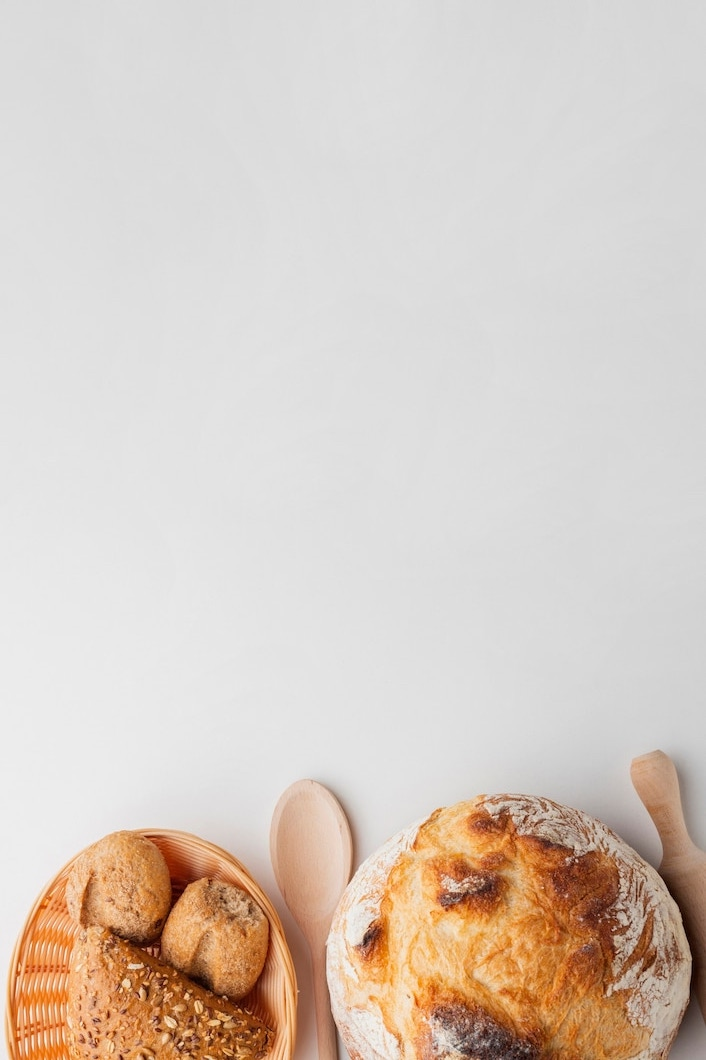
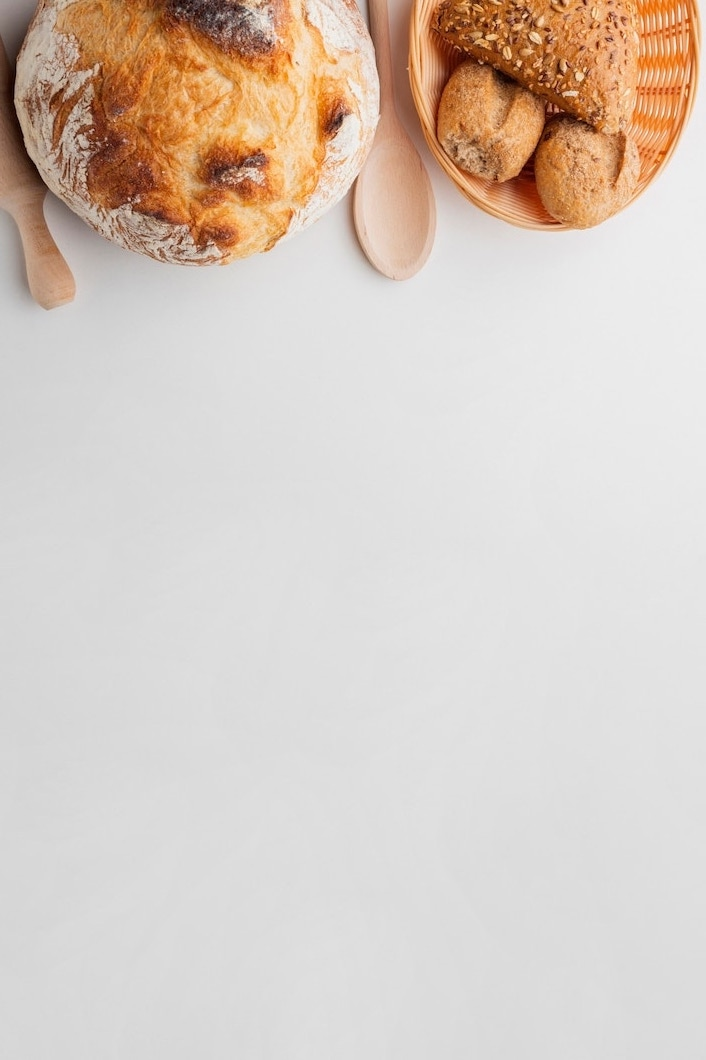
resellers bg image changed orientatation

diff --git a/scss/style.scss b/scss/style.scss
@@ -207,9 +207,8 @@ img {
 }
 
 #resellers {
-  min-height: 85vh;
+  min-height: 90vh;
   background-color: #d7d7d7;
-  padding-top: 48px;
   width: 100%;
   display: grid;
   place-items: center;
@@ -217,19 +216,19 @@ img {
   background-repeat: no-repeat;
   background-size: cover;
   background-position: right;
+  grid-template-rows: 275px auto;
   > h2 {
+    align-self: end;
     font-size: 1.5rem;
     width: 84%;
     text-align: center;
   }
 
   > div {
-    padding-top: 30px;
     width: 40%;
     display: grid;
     place-items: center;
     gap: 30px;
-    padding-bottom: 200px;
     grid-template-columns: repeat(auto-fit, minmax(168px, 1fr));
     img {
       max-width: 168px;

diff --git a/css/style.css b/css/style.css
@@ -233,9 +233,8 @@ img {
 }
 
 #resellers {
-  min-height: 85vh;
+  min-height: 90vh;
   background-color: #d7d7d7;
-  padding-top: 48px;
   width: 100%;
   display: grid;
   place-items: center;
@@ -243,19 +242,19 @@ img {
   background-repeat: no-repeat;
   background-size: cover;
   background-position: right;
+  grid-template-rows: 275px auto;
 }
 #resellers > h2 {
+  align-self: end;
   font-size: 1.5rem;
   width: 84%;
   text-align: center;
 }
 #resellers > div {
-  padding-top: 30px;
   width: 40%;
   display: grid;
   place-items: center;
   gap: 30px;
-  padding-bottom: 200px;
   grid-template-columns: repeat(auto-fit, minmax(168px, 1fr));
 }
 #resellers > div img {

diff --git a/index.html b/index.html
@@ -202,5 +202,6 @@
         /></a>
       </div>
     </section>
+    <footer id="page_footer"></footer>
   </body>
 </html>
